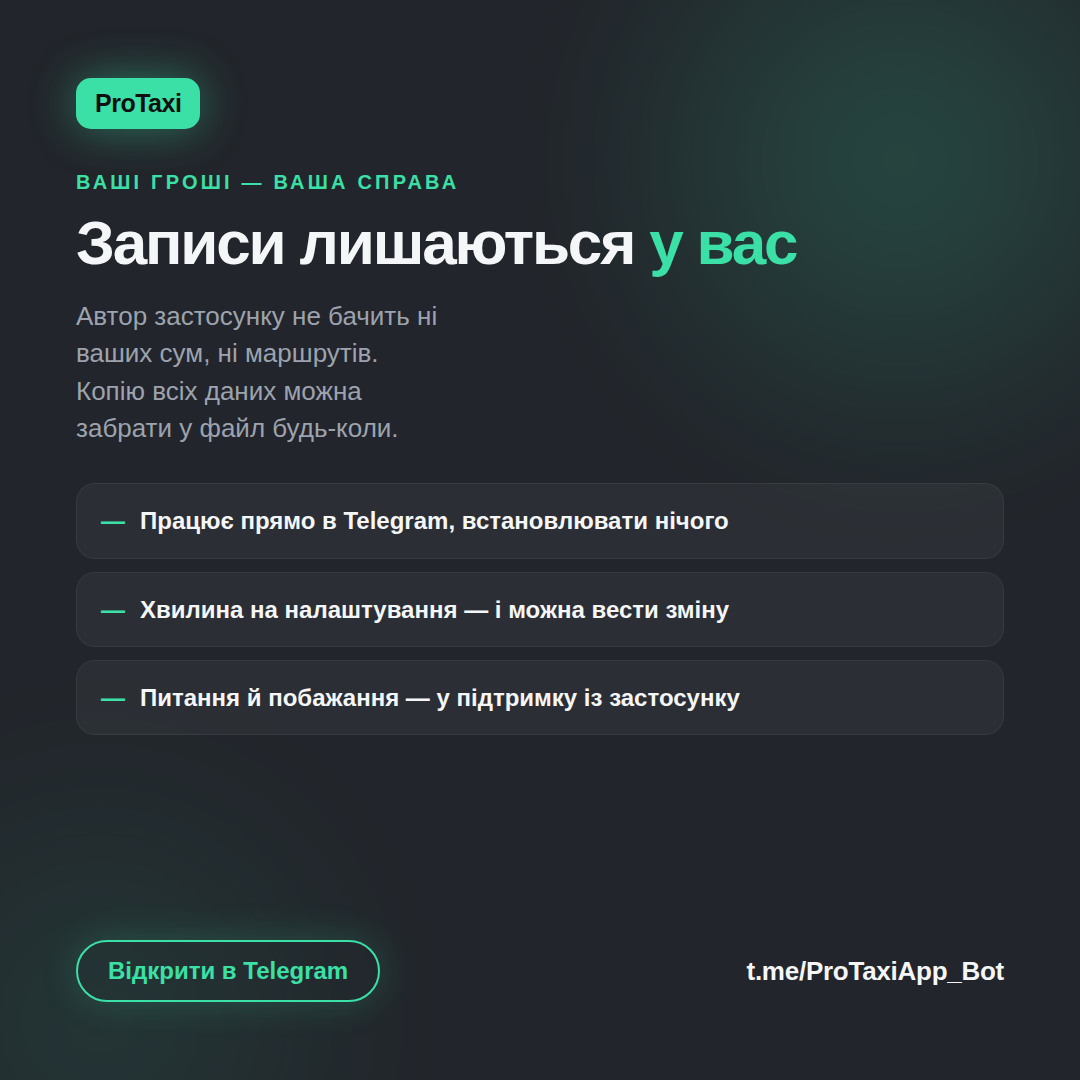
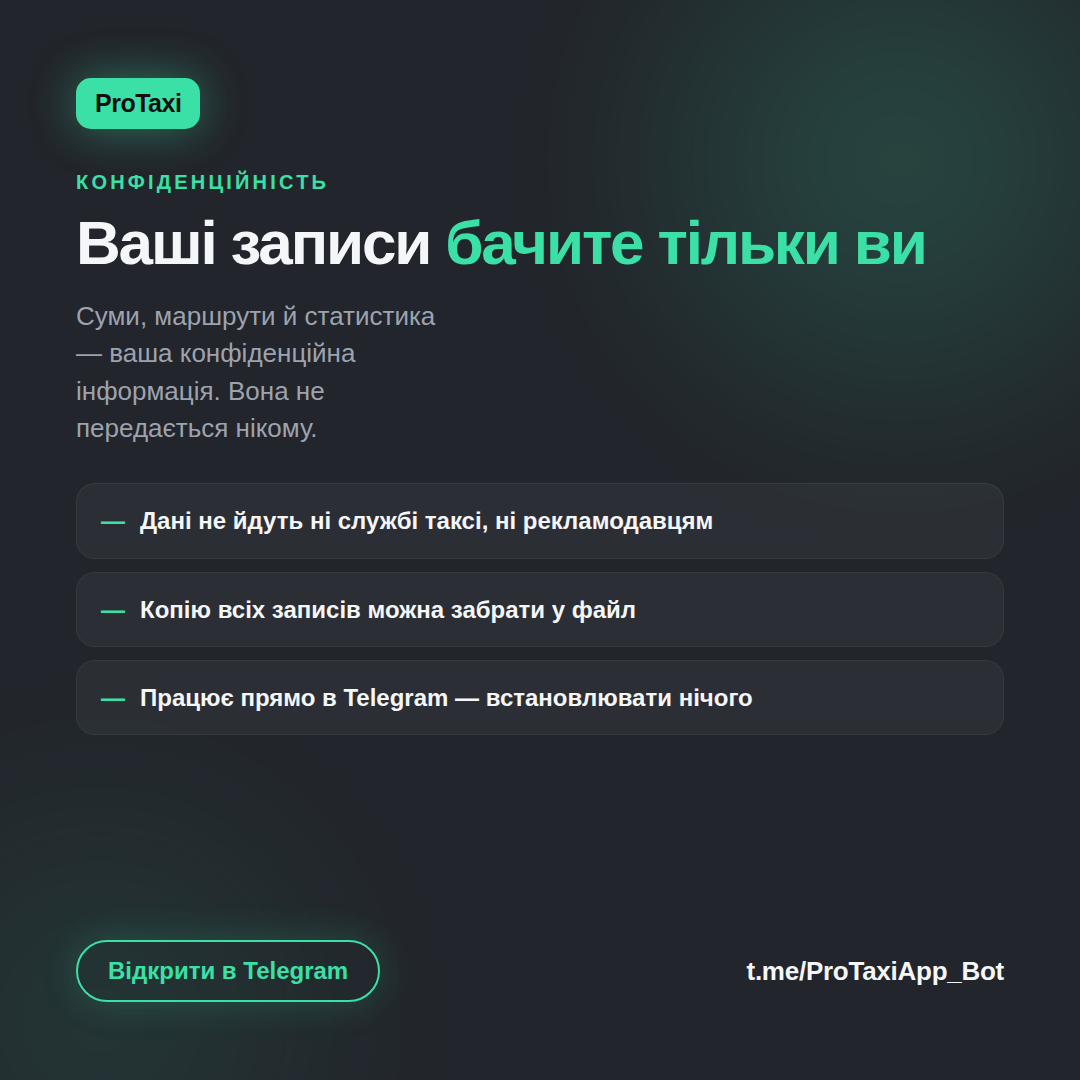
1.23: тон від імені продукту, а не від автора
У текстах про підтримку й приватність зникла згадка про «автора
застосунку». Водієві байдуже, хто це написав: його цікавить, що
записи бачить тільки він.

Банер про конфіденційність перероблений під ту саму думку.

Claude-Session: https://claude.ai/code/session_01P6fAthAhWykT2mEGYsCmUy

diff --git a/index.html b/index.html
@@ -938,7 +938,7 @@ html.map-full .tabbar{display:none}
     <div class="sect">Застосунок</div>
 
     <div class="acc" data-acc="help">
-      <button class="acc-h" type="button"><span class="t">Підтримка й хмара<span class="s">звернення до автора, синхронізація</span></span><svg viewBox="0 0 24 24" fill="none" stroke="currentColor" stroke-width="2.2" stroke-linecap="round" stroke-linejoin="round"><path d="M6 9.5 12 15.5 18 9.5"/></svg></button>
+      <button class="acc-h" type="button"><span class="t">Підтримка й хмара<span class="s">звернення в підтримку, синхронізація</span></span><svg viewBox="0 0 24 24" fill="none" stroke="currentColor" stroke-width="2.2" stroke-linecap="round" stroke-linejoin="round"><path d="M6 9.5 12 15.5 18 9.5"/></svg></button>
       <div class="acc-b">
     <div class="card">
       <div class="card-title">Підтримка</div>
@@ -1013,7 +1013,7 @@ html.map-full .tabbar{display:none}
 <div class="modal-bg mid" id="modal-support">
   <div class="modal">
     <h3>Написати в підтримку</h3>
-    <p class="hint" style="margin:0 0 12px">Опишіть проблему або пропозицію. Звернення читає автор застосунку, відповідь надійде в Telegram.</p>
+    <p class="hint" style="margin:0 0 12px">Опишіть проблему або пропозицію. Ми прочитаємо кожне звернення й відповімо в Telegram.</p>
     <div class="field"><textarea id="sup-text" rows="5" placeholder="Опиши, що сталося…"></textarea></div>
     <input type="file" id="sup-file" accept="image/*" multiple hidden>
     <button class="btn btn-ghost btn-sm" id="sup-pick" type="button">Додати знімок екрана</button>
@@ -1255,7 +1255,7 @@ html.map-full .tabbar{display:none}
 </nav>
 
 <script>
-const APP_VER='1.22';
+const APP_VER='1.23';
 /* Заставку прибираємо з DOM після показу — щоб напевно не перехоплювала дотики,
    навіть якщо анімація чомусь не відпрацювала. */
 setTimeout(function(){var s=document.getElementById('splash');if(s&&s.parentNode)s.parentNode.removeChild(s);},1800);
@@ -4403,7 +4403,7 @@ function renderSub(){
     $('sub-note').innerHTML='ProTaxi працює в режимі відкритого тестування: <b>оплата не потрібна</b>, усі можливості доступні без обмежень.'+
       '<br><br>Учасникам тестування після запуску нараховується <b>додатковий місяць</b> підписки.';
     $('sub-go').style.display='none';
-    $('sub-hint').textContent='Помітили помилку в розрахунку або незручність — напишіть у підтримку. Кожне звернення читає автор.';
+    $('sub-hint').textContent='Помітили помилку в розрахунку або незручність — напишіть у підтримку. Ми читаємо кожне звернення.';
     return;
   }
   const left=+b.left||0,act=b.active!==false;
@@ -4427,7 +4427,7 @@ function renderSub(){
   go.textContent=b.paid?'Продовжити на місяць':'Оформити за '+subPrice(b);
   $('sub-hint').textContent=b.link
     ? 'Оплата відкриється в окремому вікні. Доступ активується протягом кількох хвилин після зарахування.'
-    : 'Запит надійде автору застосунку. Доступ активують вручну, зазвичай того ж дня.';
+    : 'Запит надійде в підтримку. Доступ активуємо вручну, зазвичай того ж дня.';
 }
 const plDay=n=>{const a=n%100,b=n%10;return (a>=11&&a<=14)?'днів':(b===1?'день':((b>=2&&b<=4)?'дні':'днів'));};
 $('sub-go').addEventListener('click',async function(){
@@ -4766,7 +4766,7 @@ function renderSupport(){
     $('tg-name').textContent=[u.first_name,u.last_name].filter(Boolean).join(' ')||('@'+(u.username||u.id));
   }else who.style.display='none';
   $('support-note').textContent=TG
-    ? 'Звернення надійде автору застосунку в Telegram. Відповідь прийде в цей самий чат.'
+    ? 'Звернення надійде в підтримку. Відповідь прийде в цей самий чат.'
     : 'Звернення відкриється в Telegram. Повідомляйте про будь-яку помилку — це впливає на наступні оновлення.';
   $('btn-support').disabled=!TG&&!SUPPORT_BOT;
 }

diff --git a/about.html b/about.html
@@ -160,9 +160,9 @@ footer a{color:var(--mint);text-decoration:none}
   <div class="sect">
     <h2>Ваші гроші — ваша справа</h2>
     <p class="say">Записи зберігаються на вашому телефоні й у вашому Telegram-акаунті.
-    Автор застосунку не бачить ні ваших сум, ні маршрутів — лише знеособлену статистику
-    на кшталт «скільки водіїв відкрили застосунок сьогодні». Копію всіх даних можна
-    будь-коли забрати у файл.</p>
+    Ніхто не бачить ваших сум і маршрутів — це ваша конфіденційна інформація.
+    Дані не передаються ні службі таксі, ні рекламодавцям. Копію всіх записів
+    можна будь-коли забрати у файл.</p>
     <div class="cta">
       <a class="btn" href="https://t.me/ProTaxiApp_Bot/app">Спробувати безкоштовно</a>
     </div>

diff --git a/README.md b/README.md
@@ -28,8 +28,8 @@
 
 ## Приватність
 
-Записи водія зберігаються на його телефоні та в його Telegram-акаунті.
-Автор не бачить ні сум, ні маршрутів окремих водіїв.
+Записи зберігаються на телефоні водія та в його Telegram-акаунті.
+Ніхто не бачить сум і маршрутів — це конфіденційна інформація водія.
 
 ---
 
